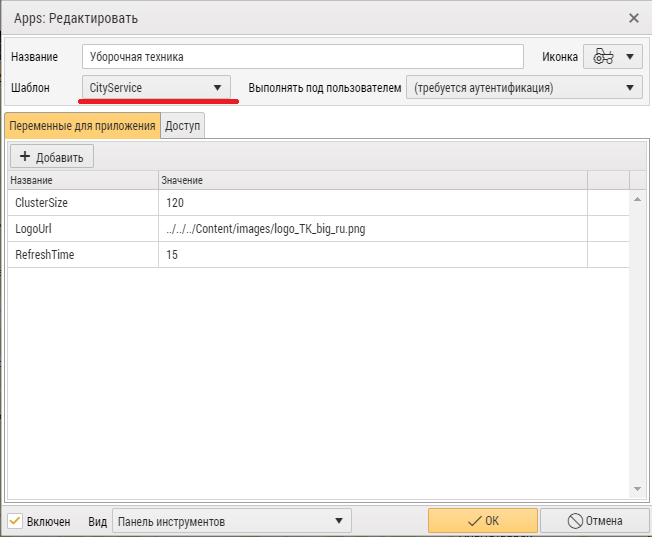
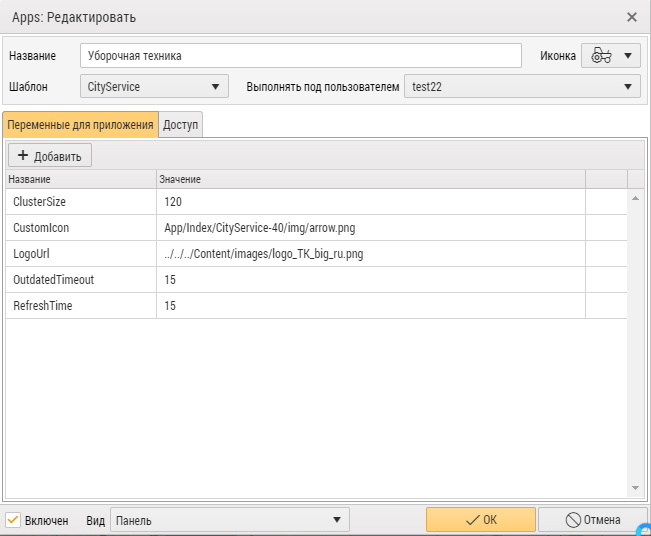
fix: флаг видимости приходит от веба, проверка отображения только по нему

diff --git a/AppTemplates/CityService/index.html b/AppTemplates/CityService/index.html
@@ -316,7 +316,7 @@
                     ).map(item => {
                         let deviceInfo = allDevicesWithPlates.find(b => b.ID == item[0]);
                         let plateNumber;
-                        if (!!item[1].Final.AppCityServiceVisible && item[1].Final.AppCityServiceVisible != "00000000-0000-0000-0000-000000000000")
+                        if (item[1].Final.AppCityServiceVisible == false)
                             return null;
                         if (!!deviceInfo) {
                             plateNumber = deviceInfo.Properties.find(a => a.Name == "VehicleRegNumber").Value;

diff --git a/AppTemplates/CityService/readme.md b/AppTemplates/CityService/readme.md
@@ -43,9 +43,9 @@
 
     <img src="img/menu-apps.png" alt="Apps windows" width="800" height="600">
 
-3. Добавьте новый App, уделив внимание выделенному полю (Шаблон - название директории, в которой находится приложение).
+3. Добавьте новый App, выбрав шаблон CityService (Шаблон - название директории, в которой находится приложение).
    Если требуется, добавьте параметры ClusterSize (размер зоны в пикселях для группировки автомобилей), RefreshTime (
-   интервал обновления положений автомобилей в секундах), LogoUrl (путь к логотипу компании).
+   интервал обновления положений автомобилей в секундах), LogoUrl (путь к логотипу компании), OutdatedTimeout (время в минутах, по истечению которого автомобиль считается offline), .
 
     <img src="img/adding-app.png" alt="Меню" width="644" height="535">
 
